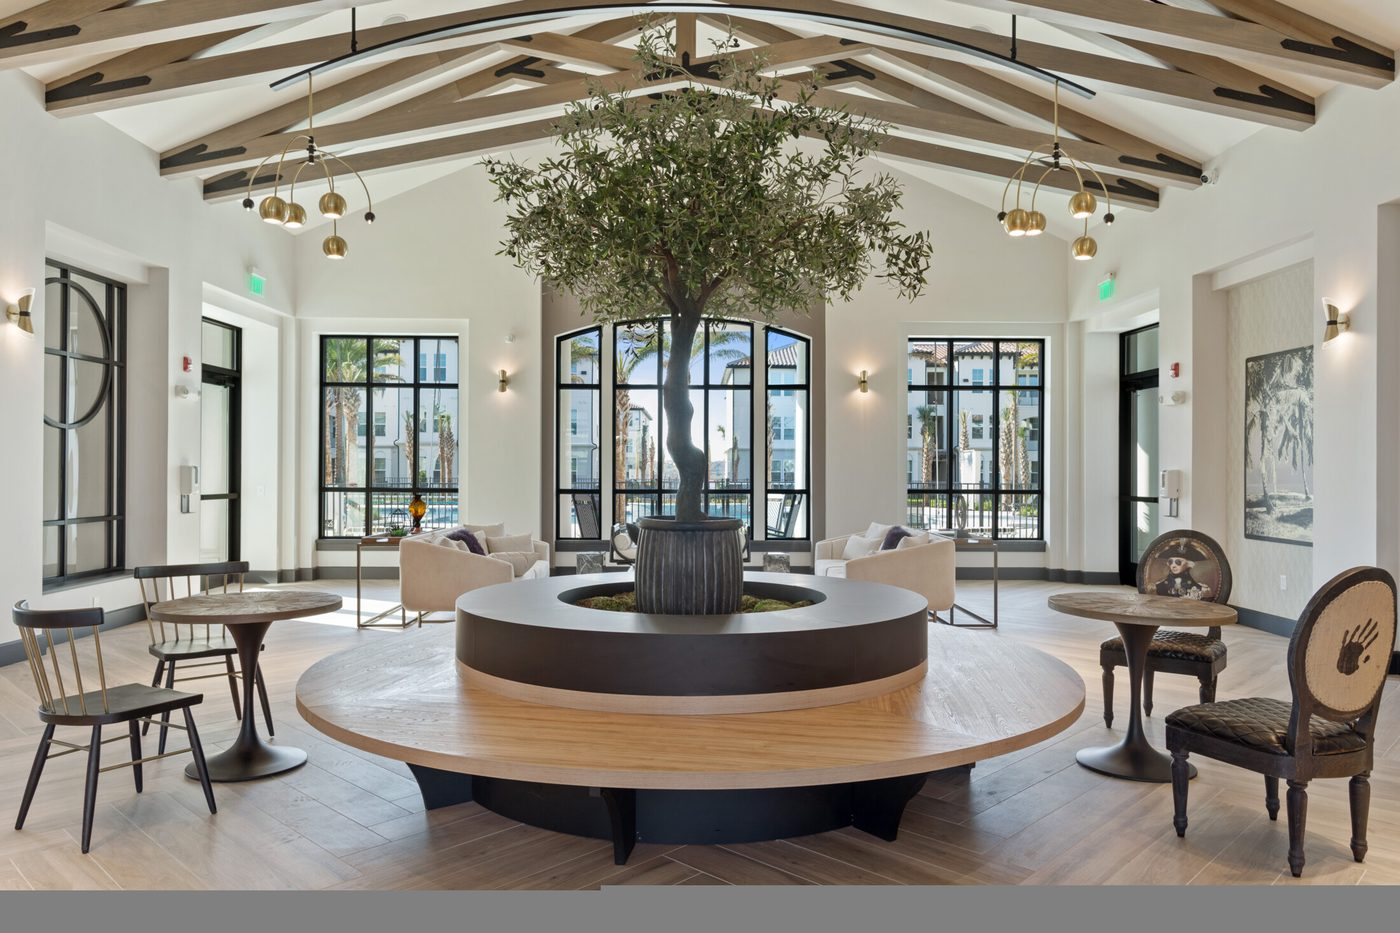
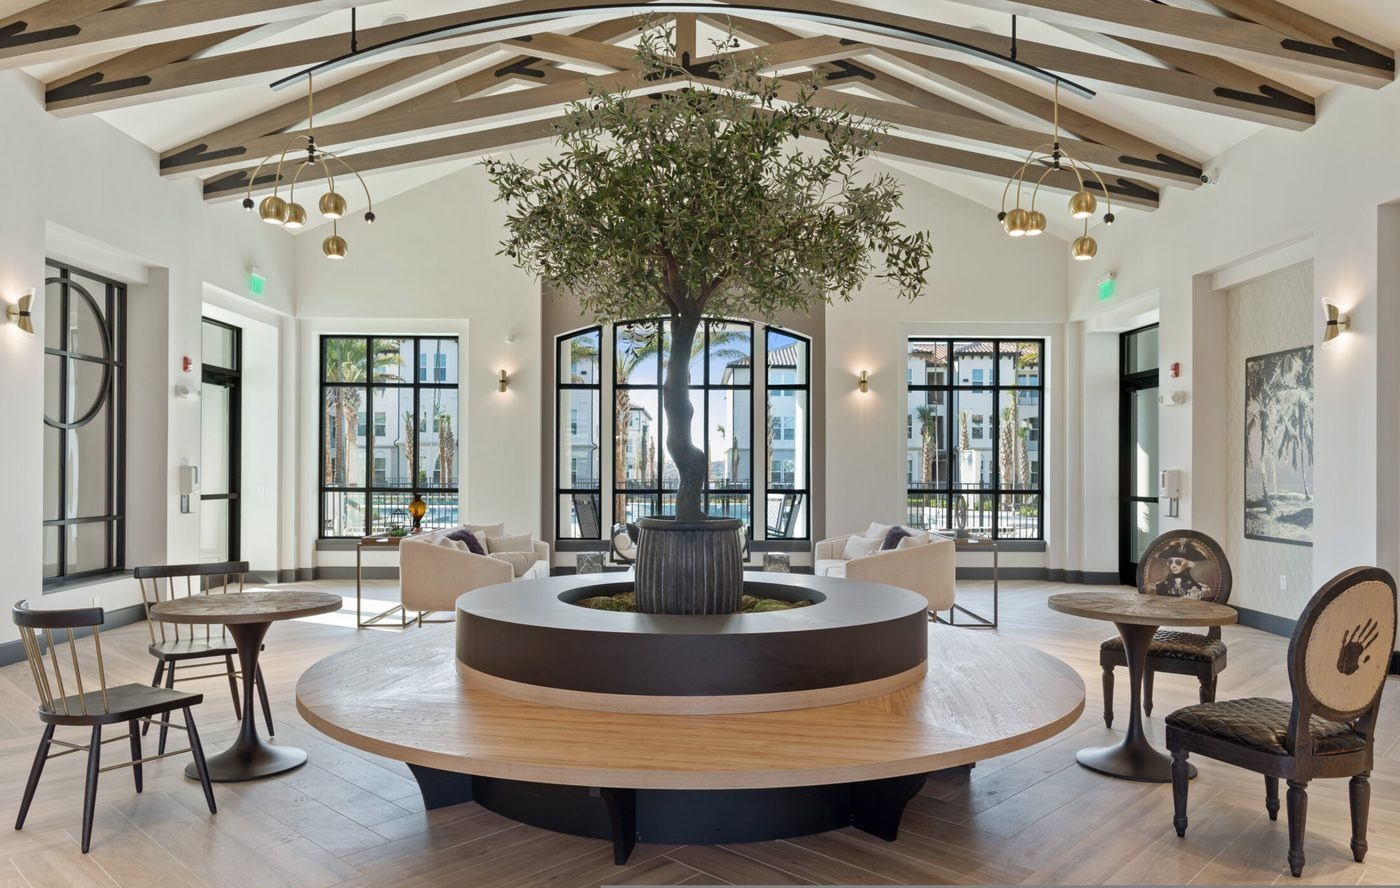
Minneola gallery: portrait left crop, two landscapes stacked right

diff --git a/presentation/assets/deck.css b/presentation/assets/deck.css
@@ -586,9 +586,9 @@ button { font-family: inherit; }
 .q2 { left: 50.25%; top: 0; right: 0; height: 42.5%; }
 .q3 { left: 0; top: 43.6%; width: 49.6%; height: 43.6%; }
 .q4 { left: 50.25%; top: 43.6%; right: 0; height: 43.6%; }
-.g-span { left: 0; top: 0; width: 100%; height: 48.2%; }
-.g-span ~ .q3 { top: 48.85%; height: 38.35%; }
-.g-span ~ .q4 { top: 48.85%; height: 38.35%; }
+.g-left { left: 0; top: 0; width: 44%; height: 87.2%; }
+.g-rt { left: 44.55%; top: 0; right: 0; height: 43.05%; }
+.g-rb { left: 44.55%; top: 44.15%; right: 0; height: 43.05%; }
 .v1 { left: 0; top: 0; width: 33.1%; height: 87.2%; }
 .v2 { left: 33.45%; top: 0; width: 33.1%; height: 87.2%; }
 .v3 { left: 66.9%; top: 0; right: 0; height: 87.2%; }
@@ -1001,9 +1001,9 @@ button { font-family: inherit; }
 .q2 { left: 50%; top: 0; right: 0; height: 36%; }
 .q3 { left: 0; top: 36%; width: 50%; height: 36%; }
 .q4 { left: 50%; top: 36%; right: 0; height: 36%; }
-.g-span { width: 100%; height: 42%; left: 0; top: 0; }
-.g-span ~ .q3 { top: 42.5%; height: 28%; }
-.g-span ~ .q4 { top: 42.5%; height: 28%; }
+.g-left { left: 0; top: 0; width: 48%; height: 72%; }
+.g-rt { left: 50%; top: 0; right: 0; height: 35.5%; }
+.g-rb { left: 50%; top: 36.2%; right: 0; height: 35.5%; }
 .v1 { left: 0; top: 0; width: 33.1%; height: 72%; }
 .v2 { left: 33.45%; top: 0; width: 33.1%; height: 72%; }
 .v3 { left: 66.9%; top: 0; right: 0; height: 72%; }

diff --git a/presentation/js/deck.js b/presentation/js/deck.js
@@ -431,9 +431,9 @@
         </section>`;
       case "gallery-span":
         return `<section class="slide" data-id="${s.id}">
-          ${photoEl(s.photos[0], "g-span", true)}
-          ${photoEl(s.photos[1], "q3", true)}
-          ${photoEl(s.photos[2], "q4", true)}
+          ${photoEl(s.photos[0], "g-left", true)}
+          ${photoEl(s.photos[1], "g-rt", true)}
+          ${photoEl(s.photos[2], "g-rb", true)}
           <div class="gal-bar">
             <div class="accent-bar"></div>
             <div class="name reveal">${esc(s.name)}</div>
